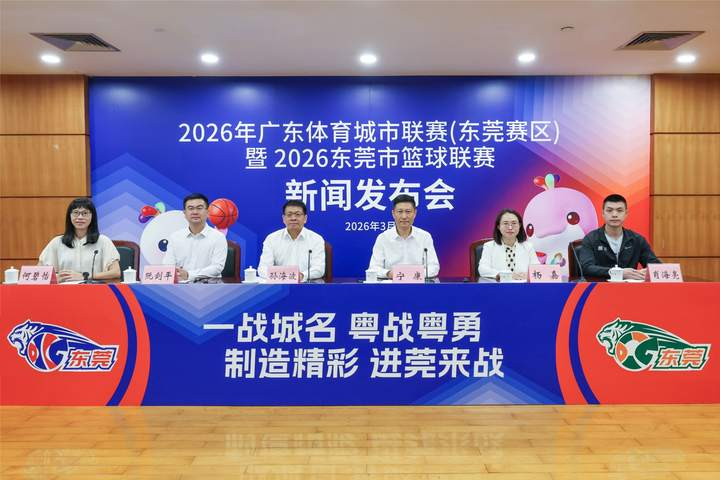
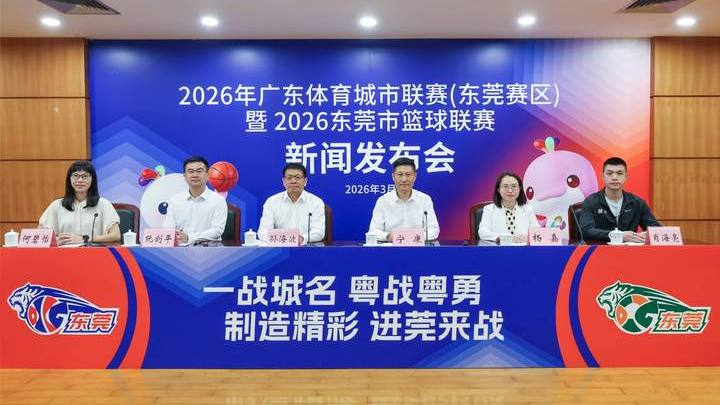
feat: every listing carries a reviewed photo; photo-less listings are gone
Rule from the user: each listing must have a real photo; drop the ones that
cannot have one and put in others that can.

- Disabled the fifteen listings with no verifiable photo (three town gyms,
  both referee bodies, five media accounts, the basketball school, the village
  league, the 3x3 tournament, two teams); nothing unrelated was put in their
  place. Added 东莞市大承文化传播有限公司 (media) from its own website.
  Eighteen listings remain, every one with a photo.
- All eighteen photos re-cut to one 16:9 card size, so the list reads as a
  single grid; squarish product shots sit over a blurred copy of themselves
  rather than losing their subject to a crop. Cover height follows 16:9.
- The library offers only categories that actually hold listings, so the
  emptied 裁判 tab no longer greets visitors with an empty state.

Tests: 118 -> 119.

diff --git a/tests/backend-integration.test.js b/tests/backend-integration.test.js
@@ -276,6 +276,25 @@ test('resource filter races only show the last response and empty resources stay
   assert.equal(p.data.featuredItem, undefined); assert.equal(p.data.list.length, 0); assert.match(p.data.emptyText, /暂无资源/);
 });
 
+test('the library offers only the categories that actually hold listings', async () => {
+  const h = harness(); const p = h.page('library'); p.onLoad({});
+  const taxonomy = ['venues', 'referees', 'materials', 'media'].map(key => ({ key, label: key }));
+  const showing = p.onShow(); await tick();                     // protectPage runs onLoad from onShow
+  h.respond(h.requests[0], Object.assign({}, config, { taxonomy })); await tick();
+  const counts = { venues: 5, referees: 0, materials: 2, media: 1 };
+  for (const item of taxonomy) {
+    const request = h.requests.find(entry => entry.data && entry.data.category === item.key && entry.data.pageSize === 1);
+    assert.ok(request, item.key + ' is counted');
+    h.respond(request, { items: [], total: counts[item.key], page: 1, pageSize: 1 });
+  }
+  await tick();
+  assert.deepEqual(p.data.categories.map(item => item.key), ['venues', 'materials', 'media'], 'the empty one is not offered');
+  assert.equal(p.data.activeCategory, 'venues');
+  const listing = h.requests.find(entry => entry.data && entry.data.pageSize === 50);
+  h.respond(listing, { items: [], total: 0, page: 1, pageSize: 50 });
+  await showing;
+});
+
 test('every listed resource uses the same card, always with a picture, and never prints the long description', async () => {
   const h = harness(); const p = h.page('library'); p.onLoad({});
   const own = 'https://api.lanxin.cyou/media/image/bansai/venues/v1.jpg';

diff --git a/utils/resource-art.js b/utils/resource-art.js
@@ -1,5 +1,5 @@
-// 资源封面：先用这条资料自己的照片（来源见后端 data/listing-images/sources.json 与 data/venue-images/sources.json），
-// 没有照片的用本分类插画占位图（明显是分类图，不冒充实拍，也不拿无关照片顶替）。
+// 资源封面：每条资源都配有经审核的真实照片（照片实际拍的是什么、来自哪里，见后端 data/listing-images/sources.json
+// 与 data/venue-images/sources.json）。ART 只是兜底：正常情况下不会用到，因为没有照片的条目已经停用。
 const PHOTO = {
   'public-dg-dg01': '/assets/resources/venues/public-dg-dg01.jpg',
   'public-dg-dg02': '/assets/resources/venues/public-dg-dg02.jpg',
@@ -12,12 +12,13 @@ const PHOTO = {
   'public-dg-ren02': '/assets/resources/listings/public-dg-ren02.jpg',
   'public-dg-sup01': '/assets/resources/listings/public-dg-sup01.jpg',
   'public-dg-sup02': '/assets/resources/listings/public-dg-sup02.jpg',
+  'public-dg-med06': '/assets/resources/listings/public-dg-med06.jpg',
+  'public-dg-coa01': '/assets/resources/listings/public-dg-coa01.jpg',
   'public-dg-evt01': '/assets/resources/listings/public-dg-evt01.jpg',
   'public-dg-evt04': '/assets/resources/listings/public-dg-evt04.jpg',
   'public-dg-evt05': '/assets/resources/listings/public-dg-evt05.jpg',
   'public-dg-team01': '/assets/resources/listings/public-dg-team01.jpg',
   'public-dg-team02': '/assets/resources/listings/public-dg-team02.jpg',
-  'public-dg-coa01': '/assets/resources/listings/public-dg-coa01.jpg',
 };
 const ART = {
   venues: '/assets/resources/placeholders/venues.jpg',

diff --git a/pages/library/library.js b/pages/library/library.js
@@ -26,8 +26,15 @@ Page(session.protectPage({
       .map(key => ({ key, label: (raw && typeof raw[key] === 'string' && raw[key]) || CATEGORY_LABELS[key] || key }));
     const categories = source.map(item => typeof item === 'string' ? { key: item, label: CATEGORY_LABELS[item] || item } :
       Object.assign({}, item, { key: item.key || item.value }));
-    this.setData({ categories, activeCategory: categories.some(item => item.key === this.data.activeCategory)
-      ? this.data.activeCategory : (categories[0] && categories[0].key) || 'venues', towns: ['全部'].concat(config.towns || []) });
+    // A category with nothing in it would only offer an empty state, so it is not offered at all.
+    const counted = await Promise.all(categories.map(async item => {
+      const page = await api.request('/api/resources', { data: { category: item.key, page: 1, pageSize: 1 } });
+      return page && Number.isInteger(page.total) && page.total > 0 ? item : null;
+    }));
+    if (this._dead) return;
+    const available = counted.filter(Boolean);
+    this.setData({ categories: available, activeCategory: available.some(item => item.key === this.data.activeCategory)
+      ? this.data.activeCategory : (available[0] && available[0].key) || 'venues', towns: ['全部'].concat(config.towns || []) });
   },
 
   async onShow() {

diff --git a/tests/ui-approved-changes.js b/tests/ui-approved-changes.js
@@ -185,5 +185,10 @@ for (const page of ["login", "result", "poster", "booking-success"]) {
     block('  <button class="contact-entry" open-type="contact" show-message-card="{{true}}" send-message-title="咨询东莞篮球资源" ' +
       'send-message-img="/assets/resources/materials/trophy-real.jpg" hover-class="library-card--hover">', "联系客服", "  </button>"),
   ]);
-  module.exports["./pages/library/library.wxss"] = [["", fs.readFileSync(path.join(__dirname, "library-contact-button.txt"), "utf8")]];
+  const ratio = fs.readFileSync(path.join(__dirname, "library-cover-ratio.txt"), "utf8");
+  module.exports["./pages/library/library.wxss"] = [
+    ["", fs.readFileSync(path.join(__dirname, "library-contact-button.txt"), "utf8")],
+    // Approved 2026-09-20: all listing photos are cut to 16:9, so the cover is 16:9 of the card width.
+    [ratio.replace("395rpx", "340rpx"), ratio],
+  ];
 }
